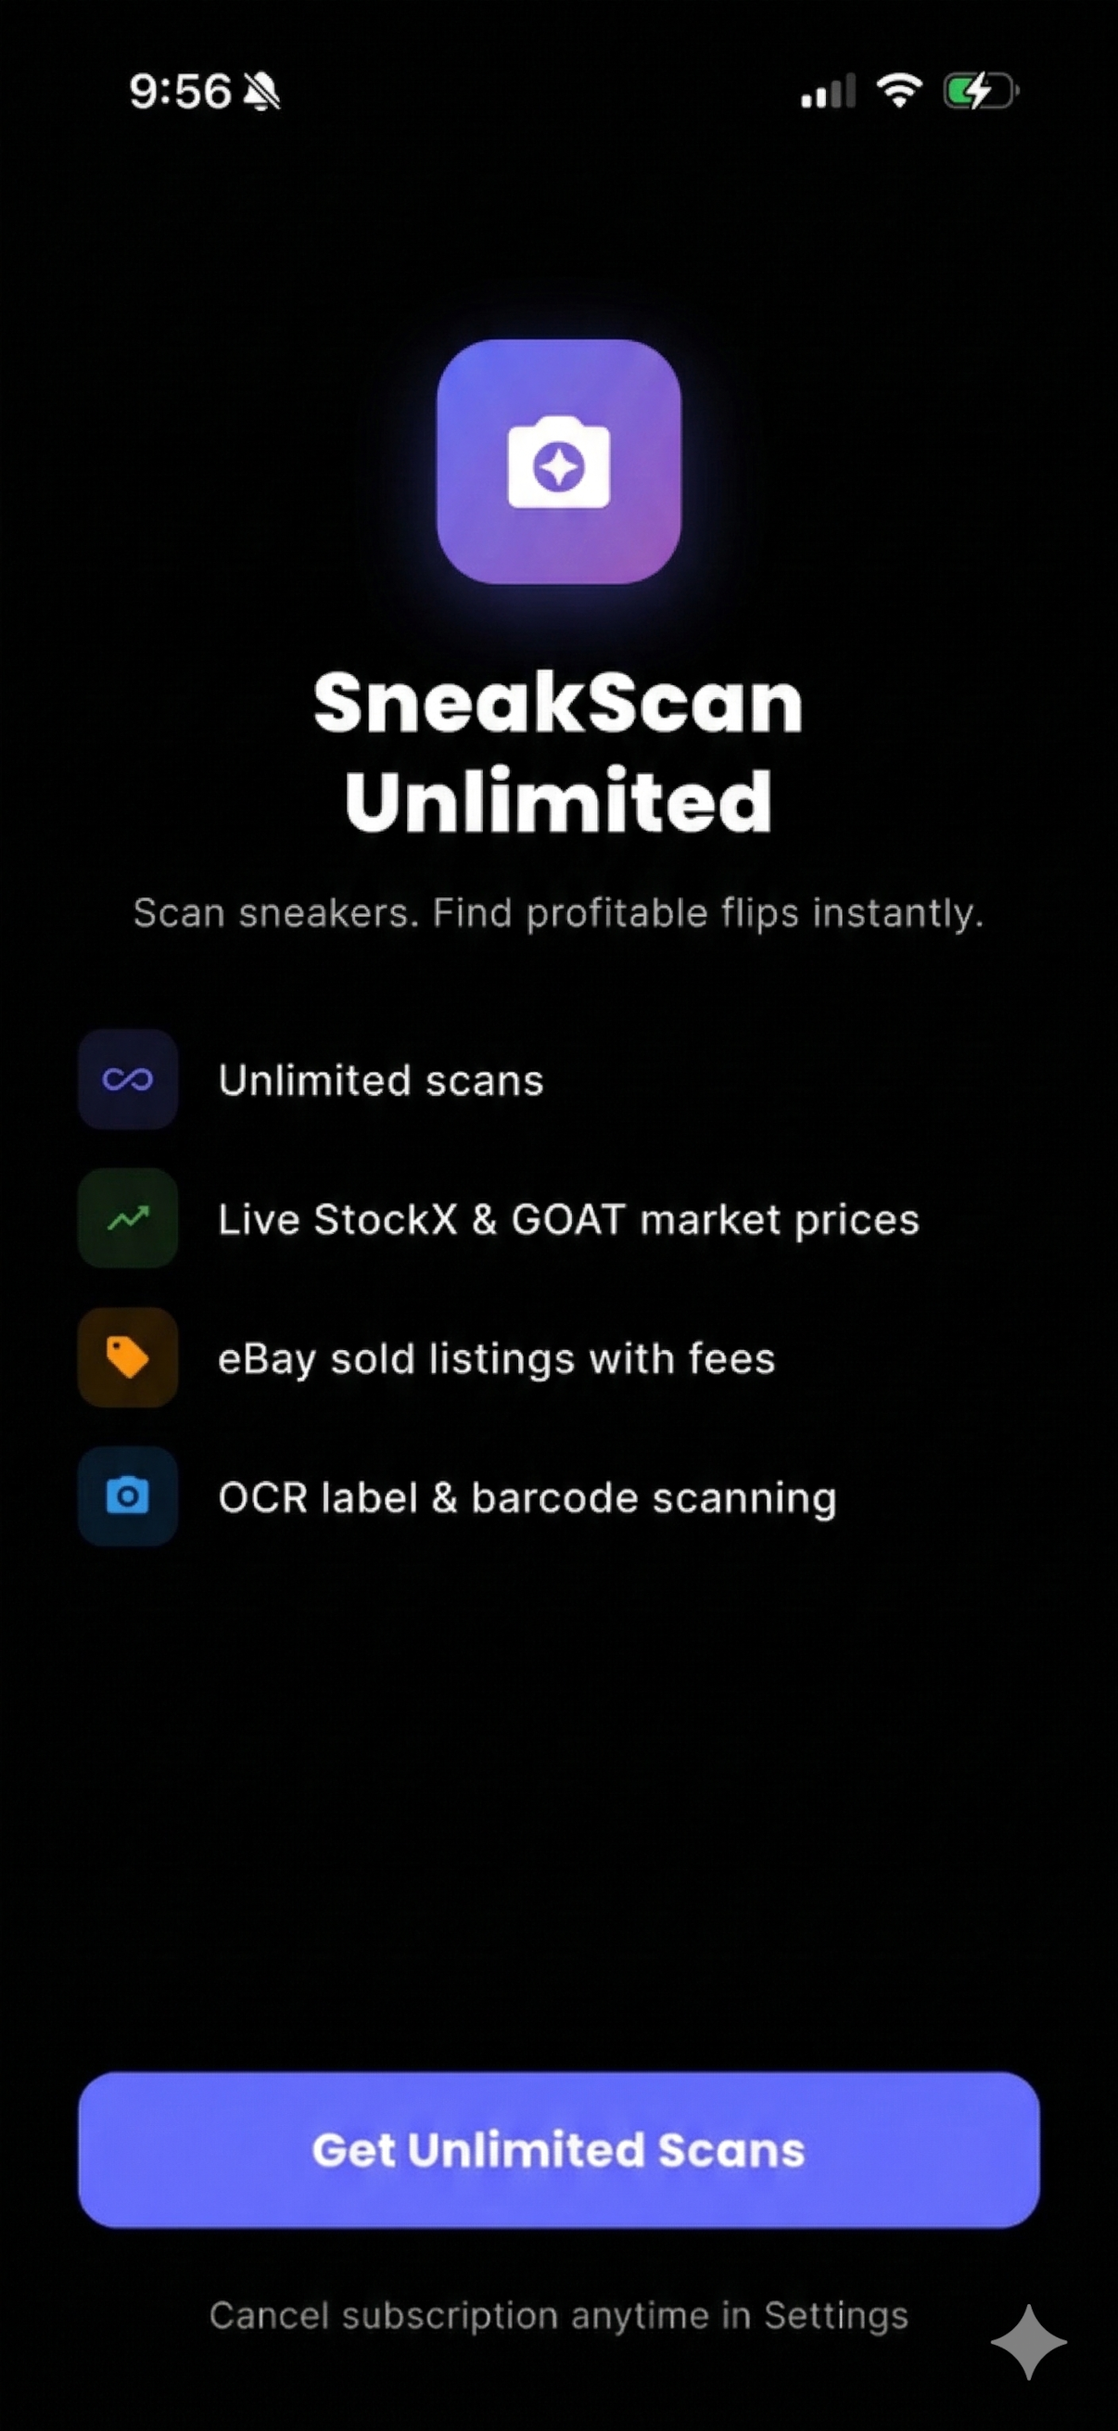
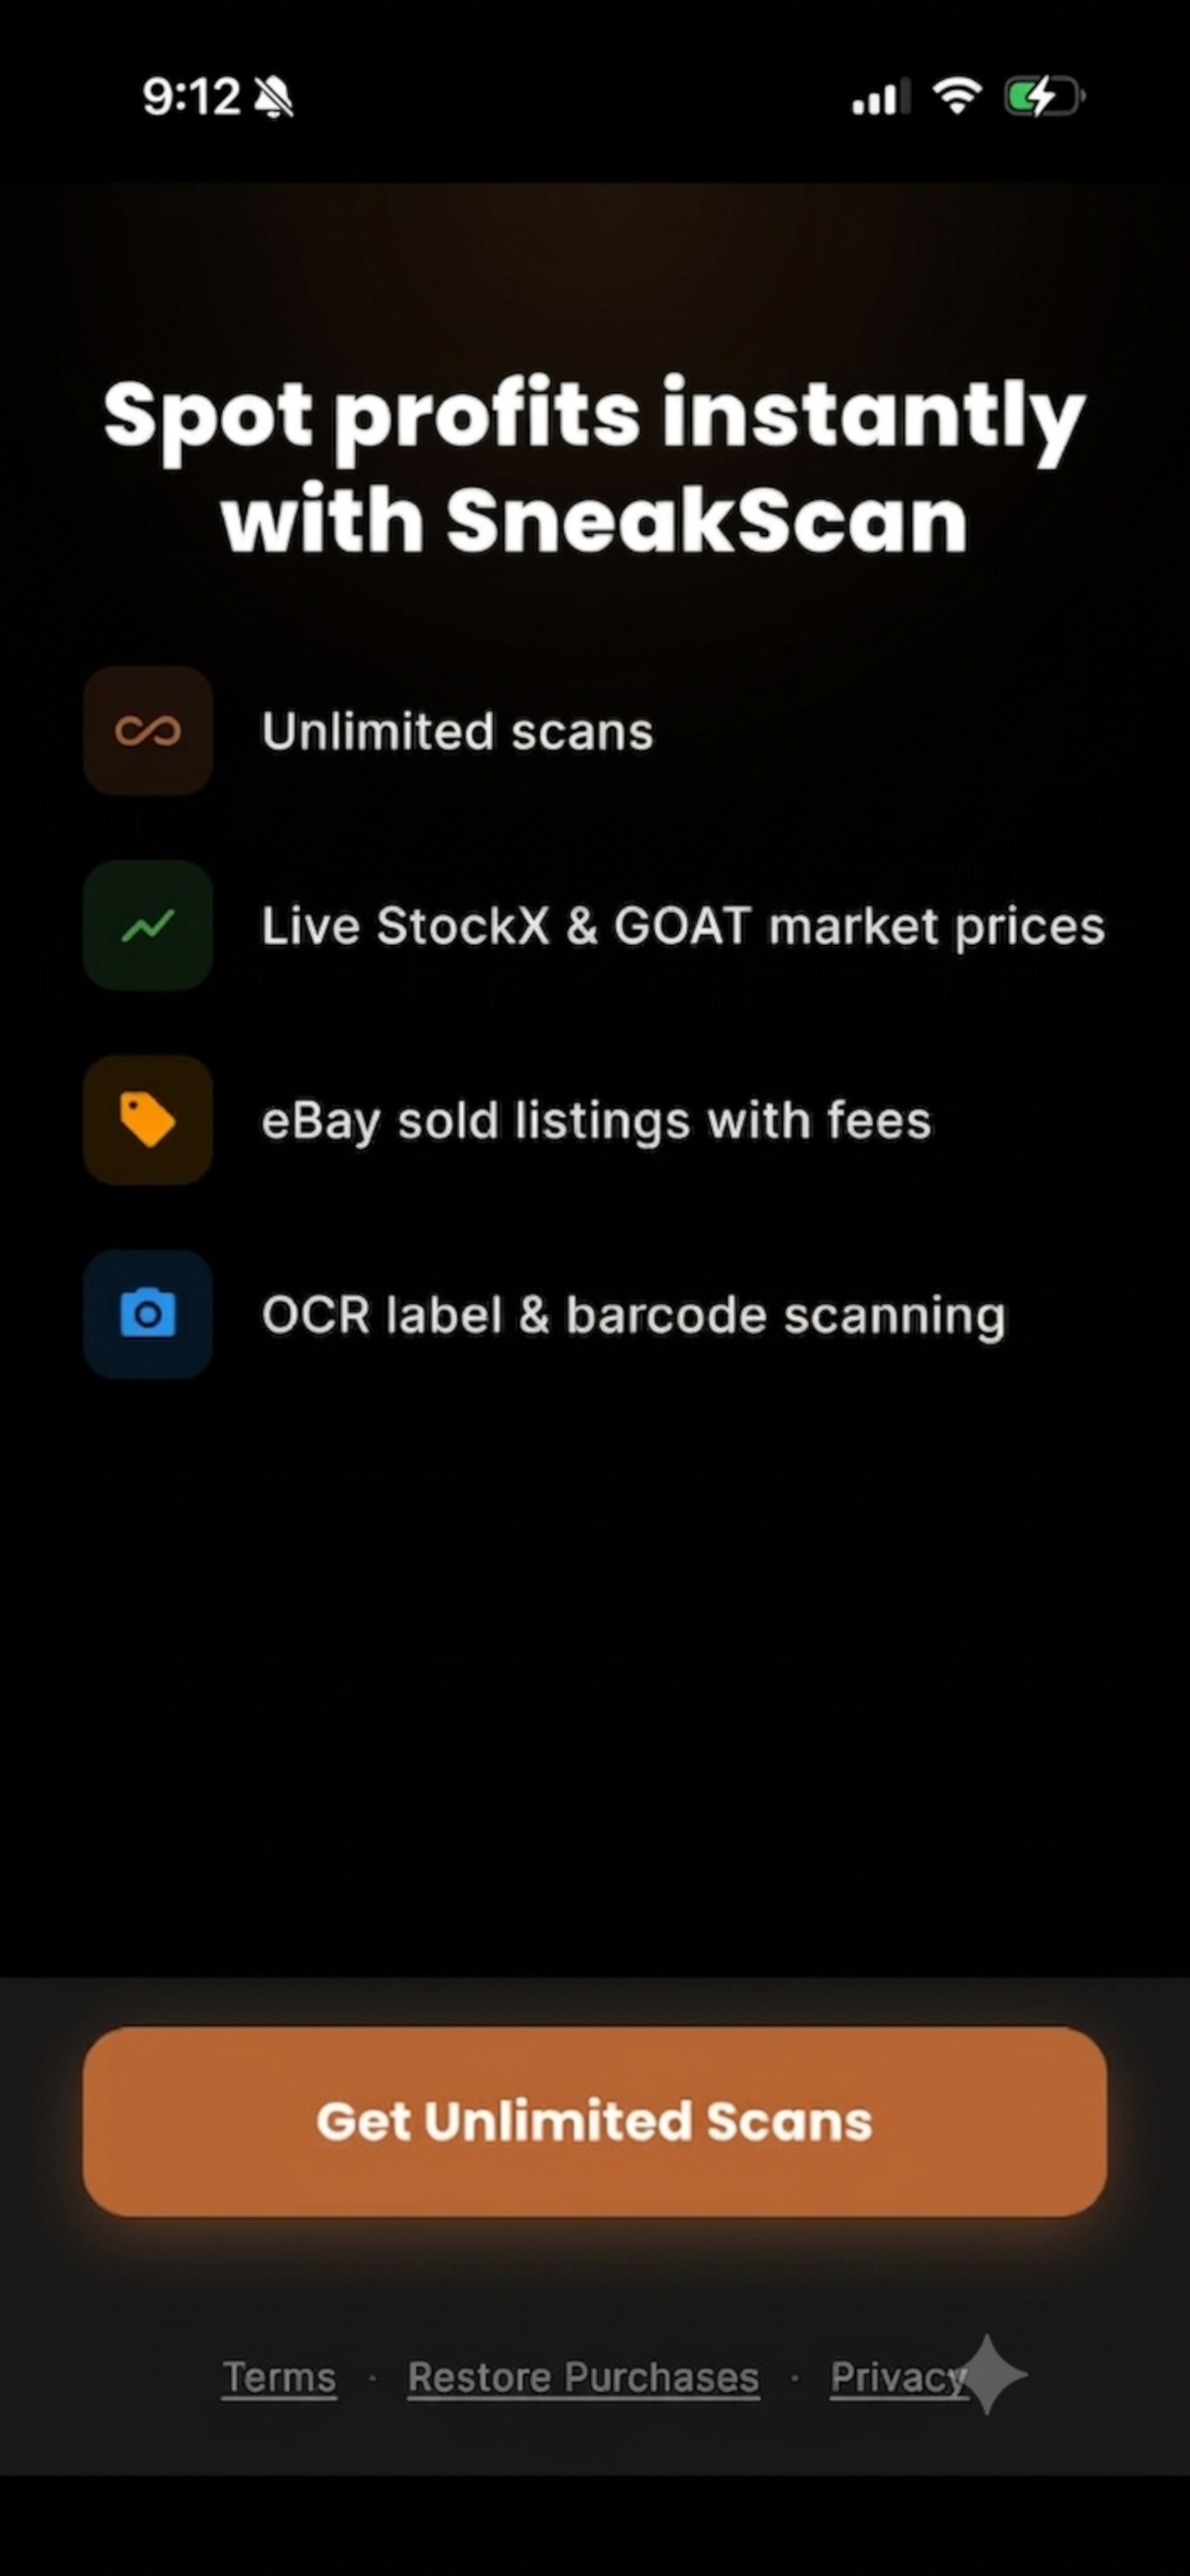
A/B testing RevenueCat integration

diff --git a/lib/services/subscription_service.dart b/lib/services/subscription_service.dart
@@ -10,9 +10,23 @@ import 'package:purchases_flutter/purchases_flutter.dart' as rc;
 import 'package:shared_preferences/shared_preferences.dart';
 
 import '../api_keys.dart';
+import 'mixpanel_service.dart';
 import 'review_access.dart';
 
+/// Fallback when RevenueCat can't name a product. Deliberately NOT one of the
+/// price-experiment SKUs, so a user who never got assigned a variant can't be
+/// miscounted as a conversion for one.
 const String kAnnualProductId = 'sneakscan_annual';
+
+/// Every SKU the paywall may need to price, including the RevenueCat price
+/// A/B variants. Queried in a single store round trip so whichever product
+/// RevenueCat assigns is already loaded by the time the experiment resolves.
+const Set<String> kAllAnnualProductIds = {
+  kAnnualProductId,
+  'sneakscan_annual_ab_2999',
+  'sneakscan_annual_ab_3999',
+  'sneakscan_annual_ab_4999',
+};
 
 enum SubscriptionStatus { loading, freeTrial, active, expired, cancelled }
 
@@ -26,7 +40,16 @@ class SubscriptionService extends ChangeNotifier {
   );
 
   SubscriptionStatus _status = SubscriptionStatus.loading;
-  ProductDetails? _annualProduct;
+
+  /// Every store product from [kAllAnnualProductIds] that loaded, keyed by id.
+  final Map<String, ProductDetails> _products = {};
+
+  // Price A/B test: RevenueCat picks which product this user is offered.
+  String? _assignedProductId;
+  String? _assignedOfferingId;
+  bool _offeringsResolved = false;
+  Timer? _offeringsTimer;
+
   bool _purchasePending = false;
   bool _purchaseCancelled = false;
   String? _purchaseError;
@@ -48,7 +71,20 @@ class SubscriptionService extends ChangeNotifier {
   bool get purchasePending => _purchasePending;
   bool get purchaseCancelled => _purchaseCancelled;
   String? get purchaseError => _purchaseError;
-  ProductDetails? get annualProduct => _annualProduct;
+
+  /// The product this user should see and buy — the RevenueCat-assigned A/B
+  /// variant, falling back to the legacy SKU whenever RevenueCat didn't name
+  /// one (offline, misconfigured dashboard, tracking disabled).
+  ProductDetails? get annualProduct =>
+      _products[_assignedProductId ?? kAnnualProductId] ??
+      _products[kAnnualProductId];
+
+  /// False until RevenueCat has had its say. The paywall skeletons the price
+  /// and blocks the subscribe button while this is false, so nobody can buy at
+  /// a price that's about to change under them.
+  bool get offeringsResolved => _offeringsResolved;
+  String? get assignedProductId => _assignedProductId;
+  String? get assignedOfferingId => _assignedOfferingId;
 
   /// True only when the subscription is currently active (including trial period).
   ///
@@ -87,9 +123,22 @@ class SubscriptionService extends ChangeNotifier {
     if (_initialized) return;
     _initialized = true;
 
-    // Tracking only — never awaited, so it can't delay or block the purchase
-    // flow if the RevenueCat SDK is slow to respond.
+    // Never awaited, so a slow RevenueCat SDK can't delay or block the purchase
+    // flow. The product query below runs in parallel with it, so the paywall
+    // waits on the slower of the two rather than their sum.
     unawaited(_configureRevenueCat());
+
+    // Backstop on the A/B variant lookup. The subscribe button is disabled
+    // until offerings resolve, and RevenueCat's own timeouts add up to far
+    // longer than anyone should stare at a dead hard paywall. Resolving early
+    // just means falling back to kAnnualProductId.
+    _offeringsTimer?.cancel();
+    _offeringsTimer = Timer(const Duration(seconds: 6), () {
+      if (!_offeringsResolved) {
+        debugPrint('[RC] Offerings timed out — using fallback product');
+        _resolveOfferings();
+      }
+    });
 
     // Detect lapsed subscribers to show correct button label.
     // iOS: query StoreKit intro offer eligibility (from Apple).
@@ -141,7 +190,13 @@ class SubscriptionService extends ChangeNotifier {
   }
 
   Future<void> _configureRevenueCat() async {
-    if (_revenueCatConfigured) return;
+    if (_revenueCatConfigured) {
+      // Configuration is static and survives reset(), but the offerings state
+      // does not — re-resolve it or a re-initialize (e.g. after deleteAccount)
+      // would leave the paywall skeleton up and its button dead forever.
+      await _loadOfferings();
+      return;
+    }
     final apiKey = Platform.isIOS
         ? ApiKeys.revenueCatAppleApiKey
         : Platform.isAndroid
@@ -149,6 +204,7 @@ class SubscriptionService extends ChangeNotifier {
         : '';
     if (apiKey.isEmpty) {
       debugPrint('[RC] No API key for this platform — tracking disabled');
+      _resolveOfferings();
       return;
     }
     try {
@@ -162,9 +218,95 @@ class SubscriptionService extends ChangeNotifier {
       _revenueCatConfigured = true;
       debugPrint('[RC] Configured (observer mode)');
       _backfillRevenueCatPurchases();
+      await _loadOfferings();
     } catch (e) {
       debugPrint('[RC] Configure failed — tracking disabled: $e');
+      _resolveOfferings();
     }
+  }
+
+  /// Resolves the price A/B variant from RevenueCat's current offering.
+  ///
+  /// RevenueCat assigns the experiment variant server-side; all we do is honor
+  /// whichever offering it hands back. Any failure leaves [_assignedProductId]
+  /// null, which falls the paywall back to [kAnnualProductId].
+  Future<void> _loadOfferings() async {
+    try {
+      final offerings = await rc.Purchases.getOfferings().timeout(
+        const Duration(seconds: 6),
+      );
+      final current = offerings.current;
+      // `annual` covers the standard $rc_annual package; fall back to the first
+      // package so a custom package identifier still works.
+      final package =
+          current?.annual ??
+          (current != null && current.availablePackages.isNotEmpty
+              ? current.availablePackages.first
+              : null);
+      final rawId = package?.storeProduct.identifier;
+      if (rawId == null) {
+        debugPrint('[RC] No current offering — using fallback product');
+        return;
+      }
+      // Play returns subscriptions as `productId:basePlanId`; the store query
+      // and purchase flow both key off the bare product id.
+      final productId = rawId.split(':').first;
+      if (!kAllAnnualProductIds.contains(productId)) {
+        // A dashboard typo would otherwise leave `annualProduct` null and dead
+        // -button the paywall. Fall back rather than ship a broken purchase.
+        debugPrint(
+          '[RC] Offering names unknown product "$productId" — ignored',
+        );
+        return;
+      }
+      if (_offeringsResolved) {
+        // The backstop timer already committed this session to the fallback.
+        // Switching now would move the price under a user whose subscribe
+        // button is live — they could tap one price and be charged another.
+        debugPrint('[RC] Offerings arrived after timeout — keeping fallback');
+        return;
+      }
+      _assignedProductId = productId;
+      _assignedOfferingId = current!.identifier;
+      debugPrint('[RC] Assigned $productId from offering $_assignedOfferingId');
+    } catch (e) {
+      debugPrint('[RC] Offerings fetch failed — using fallback product: $e');
+    } finally {
+      _resolveOfferings();
+    }
+  }
+
+  /// Unblocks the paywall and records which variant this user was shown.
+  void _resolveOfferings() {
+    if (_offeringsResolved) return;
+    _offeringsResolved = true;
+    _offeringsTimer?.cancel();
+    _offeringsTimer = null;
+    _trackVariantAssigned();
+    notifyListeners();
+  }
+
+  /// Our own record of the assignment. RevenueCat's `recordPurchase` carries no
+  /// offering identifier in observer mode, so this is the ground truth for the
+  /// price test funnel rather than a duplicate of it.
+  void _trackVariantAssigned() {
+    final productId = _assignedProductId ?? kAnnualProductId;
+    final offeringId = _assignedOfferingId;
+    final price = _products[productId]?.price;
+    // Nulls are omitted rather than sent: a null *super* property would ride
+    // along on every event from here on, which is worse than an absent one.
+    final properties = <String, dynamic>{
+      'ab_product_id': productId,
+      'ab_assigned': _assignedProductId != null,
+      'ab_offering_id': ?offeringId,
+    };
+    // Rides along on Subscribe Button Tapped and Purchase Completed, making the
+    // whole funnel sliceable by variant.
+    MixpanelService.instance.registerSuperProperties(properties);
+    MixpanelService.instance.track(
+      'Paywall Variant Assigned',
+      properties: {...properties, 'price': ?price},
+    );
   }
 
   /// One-time (per install) sync so subscribers who purchased before
@@ -249,6 +391,11 @@ class SubscriptionService extends ChangeNotifier {
 
   Future<bool> _checkTrialEligibility() async {
     try {
+      // Deliberately the legacy SKU rather than the assigned A/B variant: intro
+      // -offer eligibility is per subscription *group*, and all four products
+      // share one, so the answer is identical for any of them — and this one is
+      // guaranteed to exist. If the variants ever move to their own groups,
+      // this is the line that breaks (a lapsed user would get a fresh trial).
       final result = await _storeKitChannel.invokeMethod<bool>(
         'checkTrialEligibility',
         kAnnualProductId,
@@ -318,17 +465,28 @@ class SubscriptionService extends ChangeNotifier {
       return;
     }
 
-    final response = await InAppPurchase.instance.queryProductDetails({
-      kAnnualProductId,
-    });
+    // All A/B variants in one round trip, so whichever one RevenueCat assigns
+    // is already priced by the time the offerings fetch comes back.
+    final response = await InAppPurchase.instance.queryProductDetails(
+      kAllAnnualProductIds,
+    );
     if (response.notFoundIDs.isNotEmpty) {
+      // Usually means a SKU isn't approved for sale yet — that variant would
+      // silently fall back, so it's worth shouting about.
       debugPrint('[IAP] Products not found in store: ${response.notFoundIDs}');
     }
     if (response.productDetails.isNotEmpty) {
-      _annualProduct = response.productDetails.first;
-      debugPrint(
-        '[IAP] Product loaded: ${_annualProduct!.id}, price: ${_annualProduct!.price}',
-      );
+      for (final product in response.productDetails) {
+        // Play returns one entry per subscription *offer*, all sharing an id.
+        // First wins, matching the `.first` this used before it handled more
+        // than one product — picking a different offer would change which base
+        // plan (and whether the free trial) the user actually buys.
+        if (_products.containsKey(product.id)) continue;
+        _products[product.id] = product;
+        debugPrint(
+          '[IAP] Product loaded: ${product.id}, price: ${product.price}',
+        );
+      }
       notifyListeners();
     } else {
       debugPrint('[IAP] No products returned from store');
@@ -336,10 +494,11 @@ class SubscriptionService extends ChangeNotifier {
   }
 
   Future<void> buyAnnual() async {
-    if (_annualProduct == null) {
+    if (annualProduct == null) {
       await _loadProducts();
     }
-    if (_annualProduct == null) {
+    final product = annualProduct;
+    if (product == null) {
       _purchaseError =
           'Product not available. Check your App Store connection and try again.';
       notifyListeners();
@@ -351,7 +510,7 @@ class SubscriptionService extends ChangeNotifier {
     _purchaseInitiated = true;
     notifyListeners();
 
-    final param = PurchaseParam(productDetails: _annualProduct!);
+    final param = PurchaseParam(productDetails: product);
     try {
       await InAppPurchase.instance.buyNonConsumable(purchaseParam: param);
     } catch (e) {
@@ -546,7 +705,12 @@ class SubscriptionService extends ChangeNotifier {
     _launchCheckCompleter = null;
     _purchaseSubscription?.cancel();
     _status = SubscriptionStatus.loading;
-    _annualProduct = null;
+    _products.clear();
+    _assignedProductId = null;
+    _assignedOfferingId = null;
+    _offeringsResolved = false;
+    _offeringsTimer?.cancel();
+    _offeringsTimer = null;
     _purchasePending = false;
     _purchaseCancelled = false;
     _purchaseError = null;
@@ -557,6 +721,7 @@ class SubscriptionService extends ChangeNotifier {
   @override
   void dispose() {
     _launchCheckTimer?.cancel();
+    _offeringsTimer?.cancel();
     _purchaseSubscription?.cancel();
     super.dispose();
   }

diff --git a/lib/screens/paywall_page.dart b/lib/screens/paywall_page.dart
@@ -540,10 +540,27 @@ class _PaywallPageState extends State<PaywallPage> with WidgetsBindingObserver {
     return null;
   }
 
+  /// Placeholder held at the price line's own height so the real text lands
+  /// without shifting the layout under the subscribe button.
+  Widget _priceSkeleton() {
+    return Container(
+      width: 180,
+      height: 15,
+      decoration: BoxDecoration(
+        color: Colors.white.withValues(alpha: 0.08),
+        borderRadius: BorderRadius.circular(4),
+      ),
+    );
+  }
+
   @override
   Widget build(BuildContext context) {
     final isStatusLoading = _sub.status == SubscriptionStatus.loading;
     final pending = _sub.purchasePending || isStatusLoading;
+    // The RevenueCat price experiment decides which product this user buys, so
+    // the price isn't final until both the store query and the offerings fetch
+    // land. Both are time-capped, so this can't stick on forever.
+    final priceLoading = isStatusLoading || !_sub.offeringsResolved;
     final buttonLabel = isStatusLoading
         ? null // still determining status — show spinner
         : _sub.isSubscribed
@@ -729,7 +746,13 @@ class _PaywallPageState extends State<PaywallPage> with WidgetsBindingObserver {
                               ],
                             ),
                             child: ElevatedButton(
-                              onPressed: (pending && !_isRestoring)
+                              // priceLoading also disables: buying before the
+                              // A/B variant resolves would charge a price the
+                              // paywall never showed. It only greys the button
+                              // — the spinner stays reserved for a real pending
+                              // purchase, since one on every open reads broken.
+                              onPressed:
+                                  ((pending && !_isRestoring) || priceLoading)
                                   ? null
                                   : () {
                                       // Releasing after a three-second hold must
@@ -775,7 +798,10 @@ class _PaywallPageState extends State<PaywallPage> with WidgetsBindingObserver {
 
                       // Pricing note for lapsed subscribers
                       if (_sub.isLapsedSubscriber) ...[
-                        if (_priceLabel() != null) ...[
+                        if (priceLoading) ...[
+                          _priceSkeleton(),
+                          const SizedBox(height: 12),
+                        ] else if (_priceLabel() != null) ...[
                           Text(
                             '${_priceLabel()}/year - Cancel Anytime',
                             style: GoogleFonts.inter(
@@ -789,7 +815,10 @@ class _PaywallPageState extends State<PaywallPage> with WidgetsBindingObserver {
 
                       // Trial pricing note — only for free trial eligible users
                       if (!_sub.isSubscribed && !_sub.isLapsedSubscriber) ...[
-                        if (_priceLabel() != null) ...[
+                        if (priceLoading) ...[
+                          _priceSkeleton(),
+                          const SizedBox(height: 12),
+                        ] else if (_priceLabel() != null) ...[
                           Text(
                             '7 day free trial then ${_priceLabel()}/year',
                             style: GoogleFonts.inter(

diff --git a/lib/services/mixpanel_service.dart b/lib/services/mixpanel_service.dart
@@ -27,6 +27,14 @@ class MixpanelService {
     _mixpanel.reset();
   }
 
+  /// Attaches [properties] to every subsequent event. Used for the price A/B
+  /// variant so the whole paywall funnel stays sliceable by it. Cleared by
+  /// [reset], which the sign-out path already calls.
+  void registerSuperProperties(Map<String, dynamic> properties) {
+    if (!_initialized) return;
+    _mixpanel.registerSuperProperties(properties);
+  }
+
   void track(String eventName, {Map<String, dynamic>? properties}) {
     if (!_initialized) return;
     _mixpanel.track(eventName, properties: properties);
